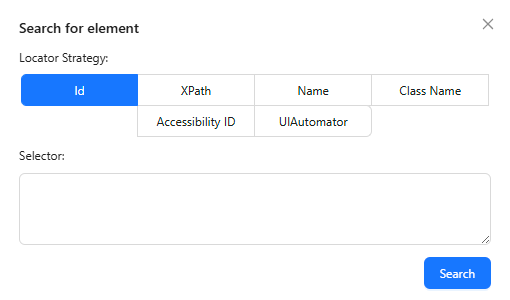
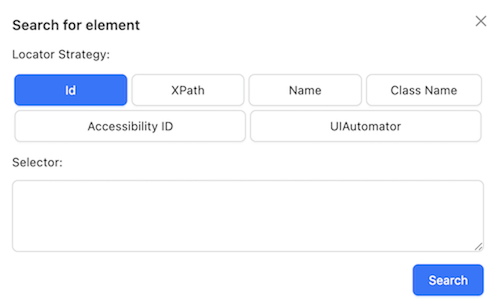
style: adjust search modal locator strategy buttons (#2513)
* style: adjust search modal locator strategy buttons

* add flex-grow to justify content

* set a max width to prevent a single button taking up full width

* docs: update search modal image

diff --git a/app/common/renderer/components/SessionInspector/Header/ElementLocator.jsx b/app/common/renderer/components/SessionInspector/Header/ElementLocator.jsx
@@ -1,6 +1,6 @@
-import {Alert, Input, Radio, Row, Space} from 'antd';
+import {Alert, Button, Input, Row, Space} from 'antd';
 
-import {ALERT} from '../../../constants/antd-types.js';
+import {ALERT, BUTTON} from '../../../constants/antd-types.js';
 import {LOCATOR_STRATEGY_MAP as STRAT} from '../../../constants/session-inspector.js';
 import inspectorStyles from '../SessionInspector.module.css';
 import styles from './Header.module.css';
@@ -36,23 +36,16 @@ const ElementLocator = (props) => {
     <Space className={inspectorStyles.spaceContainer} orientation="vertical" size="small">
       {t('locatorStrategy')}
       <Row justify="center">
-        <Radio.Group
-          buttonStyle="solid"
-          onChange={(e) => setLocatorTestStrategy(e.target.value)}
-          defaultValue={locatorTestStrategy}
-        >
-          <Row justify="center">
-            {locatorStrategies(automationName).map(([strategyValue, strategyName]) => (
-              <Radio.Button
-                className={styles.locatorStrategyBtn}
-                value={strategyValue}
-                key={strategyValue}
-              >
-                {strategyName}
-              </Radio.Button>
-            ))}
-          </Row>
-        </Radio.Group>
+        {locatorStrategies(automationName).map(([strategyValue, strategyName]) => (
+          <Button
+            type={strategyValue === locatorTestStrategy ? BUTTON.PRIMARY : BUTTON.DEFAULT}
+            className={styles.locatorStrategyBtn}
+            onClick={() => setLocatorTestStrategy(strategyValue)}
+            key={strategyValue}
+          >
+            {strategyName}
+          </Button>
+        ))}
       </Row>
       {!automationName && (
         <Alert title={t('missingAutomationNameForStrategies')} type={ALERT.INFO} showIcon />

diff --git a/app/common/renderer/components/SessionInspector/Header/Header.module.css b/app/common/renderer/components/SessionInspector/Header/Header.module.css
@@ -1,7 +1,8 @@
 .locatorStrategyBtn {
-  margin-top: -1px;
-  min-width: 25%;
-  text-align: center;
+  margin: 2px;
+  min-width: 24%;
+  max-width: 49%;
+  flex-grow: 1;
 }
 
 .locatorSelectorTextArea {
